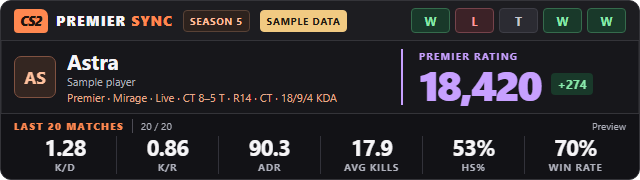
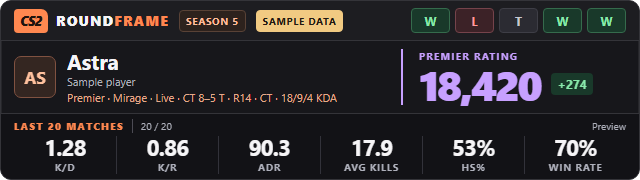
Rebrand project as Roundframe for CS2
Refresh the README and guides, align the overlay and setup branding, and migrate the old Startup shortcut while keeping existing data paths and release downloads intact.

Changed region(s): [[0.0938, 0.0556, 0.5625, 0.1944]]

diff --git a/web/index.html b/web/index.html
@@ -4,16 +4,16 @@
   <meta charset="utf-8">
   <meta name="viewport" content="width=device-width, initial-scale=1">
   <meta name="color-scheme" content="dark">
-  <title>CS2 Premier Sync</title>
+  <title>Roundframe for CS2</title>
   <link rel="stylesheet" href="./web/styles.css">
   <script defer src="./web/app.js"></script>
 </head>
 <body>
-  <main class="widget" id="widget" data-band="unrated" aria-label="CS2 Premier Sync player statistics">
+  <main class="widget" id="widget" data-band="unrated" aria-label="Roundframe for CS2 player statistics">
     <header class="top-row">
       <div class="brand">
         <span class="brand-mark">CS2</span>
-        <span>PREMIER <b>SYNC</b></span>
+        <span>ROUND<b>FRAME</b></span>
       </div>
       <span class="season" title="Valve Premier season verified November 2026">SEASON 5</span>
       <span class="sample" id="sample" hidden>SAMPLE DATA</span>

diff --git a/web/settings.html b/web/settings.html
@@ -3,13 +3,13 @@
 <head>
   <meta charset="utf-8">
   <meta name="viewport" content="width=device-width, initial-scale=1">
-  <title>CS2 Premier Sync · One-time setup</title>
+  <title>Roundframe for CS2 · One-time setup</title>
   <link rel="stylesheet" href="/web/settings.css">
 </head>
 <body>
   <main class="page">
     <header class="header">
-      <div class="brand"><span class="brand-mark">CS2</span><div><b>PREMIER SYNC</b><small>COMPACT OBS PROFILE OVERLAY</small></div></div>
+      <div class="brand"><span class="brand-mark">CS2</span><div><b>ROUNDFRAME</b><small>PREMIER PROFILE OVERLAY</small></div></div>
       <a href="/?demo=1" target="_blank" rel="noopener noreferrer">OPEN PREVIEW ↗</a>
     </header>
     <section class="intro">

diff --git a/server.py b/server.py
@@ -236,7 +236,7 @@ def send_json(handler: BaseHTTPRequestHandler, data: Any, status: int = 200) -> 
 
 
 class Handler(BaseHTTPRequestHandler):
-    server_version = "CS2PremierOverlay"
+    server_version = "RoundframeForCS2"
     sys_version = ""
 
     def setup(self) -> None:
@@ -384,9 +384,9 @@ def main() -> None:
             with urlopen(request, timeout=3) as response:
                 if json.load(response) != {"ok": True}:
                     raise ValueError("Unexpected response")
-            print("CS2 Premier Sync stopped.")
+            print("Roundframe for CS2 stopped.")
         except (OSError, ValueError):
-            raise SystemExit("Could not stop CS2 Premier Sync. Check whether it is running on port 3000.")
+            raise SystemExit("Could not stop Roundframe for CS2. Check whether it is running on port 3000.")
         return
     try:
         server = ThreadingHTTPServer((HOST, PORT), Handler)

diff --git a/providers.py b/providers.py
@@ -125,7 +125,7 @@ def parse_profile(profile: dict, steam_id: str, matches: Any = None) -> dict:
 
 
 def http_json(url: str, api_key: str = "") -> Any:
-    request = Request(url, headers={"Accept": "application/json", "User-Agent": "CS2-Premier-OBS-Overlay"})
+    request = Request(url, headers={"Accept": "application/json", "User-Agent": "Roundframe-CS2"})
     if api_key:
         request.add_unredirected_header("Authorization", f"Bearer {api_key}")
     with urlopen(request, timeout=8) as response:

diff --git a/scripts/build_release.py b/scripts/build_release.py
@@ -30,7 +30,7 @@ def main() -> None:
         raise SystemExit("VERSION must be in major.minor.patch form.")
     licensed = (ROOT / "LICENSE").is_file()
     files = sorted([*FILES, "LICENSE"] if licensed else FILES)
-    name = f"CS2-Premier-Overlay-{version}"
+    name = f"cs2-roundframe-{version}"
     dist = ROOT / "dist"
     dist.mkdir(exist_ok=True)
     archive = dist / f"{name}-windows{'-candidate' if not licensed else ''}.zip"

diff --git a/README.md b/README.md
@@ -1,42 +1,50 @@
-# CS2 Premier Sync for OBS
+# Roundframe for CS2
 
-A 640 × 180 OBS Browser Source for Windows 10 and 11. Show your CS Rating, recent matchmaking stats, and live Counter-Strike 2 scores in one scene. The preview uses fictional data.
+[![Checks](https://github.com/abhiraj109/cs2-roundframe/actions/workflows/ci.yml/badge.svg?branch=main)](https://github.com/abhiraj109/cs2-roundframe/actions/workflows/ci.yml) [![MIT License](https://img.shields.io/github/license/abhiraj109/cs2-roundframe)](LICENSE)
 
-![CS2 Premier Sync banner and overlay preview with sample data](assets/screenshots/preview.png)
+A clean, compact CS2 Premier profile overlay for OBS on Windows 10 and 11. Roundframe combines your Premier Rating and recent match stats with live match details in a 640 × 180 browser source. Steam and CS2 are needed for live match data. The preview uses fictional data.
 
-## Quick start
+![Roundframe for CS2 overlay preview with fictional sample data](assets/screenshots/preview.png)
+
+## Get started
 
 1. Install [Python 3.10 or newer](https://www.python.org/downloads/windows/) and [OBS Studio](https://obsproject.com/download). Enable the Python launcher or add Python to PATH.
-2. Extract the release ZIP to a permanent folder and run `setup_once.bat` to install the CS2 Game State Integration (GSI) config. The optional Windows Startup shortcut launches this copy of the project.
-3. Run `run_overlay.bat` and fully restart CS2. In OBS add a **Browser** source with URL `http://127.0.0.1:3000/`, **Width 640** and **Height 180**. Keep **Local file** off.
-4. Open `http://127.0.0.1:3000/?demo=1` to preview fictional data. If you use the demo URL in OBS, restore `http://127.0.0.1:3000/` for live use.
+2. Download the latest **Windows ZIP** from [GitHub Releases](https://github.com/abhiraj109/cs2-roundframe/releases/latest) and extract it to a permanent folder.
+3. Run `setup_once.bat` to install the CS2 Game State Integration (GSI) config. Run `run_overlay.bat`, then fully restart CS2.
+4. In OBS, add a **Browser** source with URL `http://127.0.0.1:3000/`, width **640** and height **180**. Leave **Local file** off.
 
-See the [Windows installation guide](docs/INSTALLATION.md) for screenshots, manual GSI install, scaling, updates and uninstall. Use `stop_overlay.bat` to stop the server.
+Open `http://127.0.0.1:3000/?demo=1` to preview fictional data. For setup screenshots, scaling, updates and uninstall steps, see the [Windows installation guide](docs/INSTALLATION.md). Use `stop_overlay.bat` to stop the server.
 
-## Feature support
+## What it shows
 
-| Feature | Availability | Data source |
-| --- | --- | --- |
-| Premier Rating | When the public profile has a current CS Rating | Leetify `ranks.premier` |
-| Player name | When Steam, the local game or the public profile reports it | Steam login data, GSI, Leetify |
-| K/D | Recent recorded matches with kills and deaths | Leetify detail, or GSI history |
-| Last 20 matches | Up to 20 available matches; five recent result tiles | Leetify matchmaking, or GSI history |
-| Headshot % | When provider matches report headshot kills | Leetify match detail |
-| Win rate | When known results are available | Leetify matchmaking, or GSI history |
-| ADR | When provider matches include round and damage data | Leetify match detail |
-| Live score, map and K/D/A | When CS2 reports them for the selected account | GSI |
+| Display | Source and coverage |
+| --- | --- |
+| Premier Rating | Current rating from a public Leetify profile, when available |
+| Recent results and stats | Up to 20 processed Leetify matches; local GSI match history can fill in supported stats |
+| Headshot percentage and ADR | Leetify match details when the provider supplies them |
+| Live player, map, score and K/D/A | CS2 Game State Integration while playing |
 
-Premier and Competitive can both appear as **Matchmaking** when CS2 reports `competitive`. Wingman appears when the feed identifies it. CS Rating applies to Premier. Local history requires the overlay to see the local player during live play and receive a final score. Practice or community matches can report similar mode fields. The overlay uses either provider history or local history for a display, with missing metrics shown as dashes.
+CS2 may report both Premier and Competitive as **Matchmaking**. Local history only records matches observed while Roundframe is running and requires a final score. Missing values appear as dashes. See [data sources and metric coverage](docs/CONFIGURATION.md).
 
-Steam detection checks the active Windows Steam account, the live CS2 account, then Steam's recent-login config. Set a one-time override at `http://127.0.0.1:3000/settings`. The normal launcher looks up the selected SteamID64 with Leetify. Launch from Command Prompt with `run_overlay.bat --offline` for GSI and local history without provider requests. The Browser Source can reveal the selected Steam ID, name and avatar during a stream. See [configuration and statistics](docs/CONFIGURATION.md) and [privacy](SECURITY.md).
+## Leetify and local data
 
-## Help and development
+Roundframe can request public profile and match data from Leetify. A public profile connected to the selected Steam account is required. A `LEETIFY_API_KEY` Windows user environment variable is optional; it can help avoid unauthenticated rate limits. See [Leetify setup](docs/CONFIGURATION.md#leetify-api-key). Do not put an API key in the repository or share it in screenshots.
 
-- [Troubleshooting](docs/TROUBLESHOOTING.md) covers Python, Steam, GSI, Leetify, OBS size and port 3000.
-- [FAQ](docs/FAQ.md) answers common setup and data questions.
-- [Architecture](docs/ARCHITECTURE.md) and [local API](docs/API.md) describe the server, storage and browser.
-- Run `run_tests.bat` on Windows or `python -m unittest discover -s tests -v` from the project root. See [contributing](CONTRIBUTING.md), [test results](docs/TEST_RESULTS.md), and the [changelog](CHANGELOG.md).
+The server listens on `127.0.0.1:3000`; CS2 Game State data is sent to your own PC. Provider profile data stays in memory, while locally observed matches and your selected Steam account setting are stored under `%LOCALAPPDATA%\CS2PremierOverlay`. The OBS source can display your Steam name, SteamID64 and avatar. Use `run_overlay.bat --offline` to disable Leetify requests for that session. Read the [privacy and security notes](SECURITY.md).
+
+## Guides
+
+- [Installation, updates and uninstall](docs/INSTALLATION.md)
+- [Configuration and statistics](docs/CONFIGURATION.md)
+- [Troubleshooting](docs/TROUBLESHOOTING.md)
+- [Frequently asked questions](docs/FAQ.md)
+- [Architecture](docs/ARCHITECTURE.md) and [local HTTP API](docs/API.md)
+- [Third-party notices](docs/THIRD_PARTY.md), [license](LICENSE), and [changelog](CHANGELOG.md)
+
+## Development
+
+Roundframe uses Python's standard library and does not require `pip install`. Run `run_tests.bat` on Windows, or `python -m unittest discover -s tests -v`. See [contributing](CONTRIBUTING.md) and [test results](docs/TEST_RESULTS.md). The GitHub Actions checks run the Windows test matrix, browser JavaScript syntax check, packaging check and secret scan.
 
 ## License and attribution
 
-The project code and documentation are released under the [MIT License](LICENSE). See the [third-party notices](docs/THIRD_PARTY.md) for the Leetify attribution artwork and provider terms. This is an independent community project with no affiliation with Valve, Steam, FACEIT, Leetify or OBS Studio. Their names and marks belong to their respective owners.
+The project code and documentation are available under the [MIT License](LICENSE). The Leetify attribution artwork is governed by Leetify's terms; see [third-party notices](docs/THIRD_PARTY.md). Roundframe is an independent community project with no affiliation with Valve, Steam, FACEIT, Leetify or OBS Studio. Their names and marks belong to their respective owners.

diff --git a/docs/PUBLISHING.md b/docs/PUBLISHING.md
@@ -1,28 +1,29 @@
-# Publish the project on GitHub
+# Publish a Roundframe for CS2 release
 
-The local branch is `main`. The project uses the [MIT License](../LICENSE). See [third-party notices](THIRD_PARTY.md) for the Leetify integration and its outstanding terms questions.
+The public repository is [abhiraj109/cs2-roundframe](https://github.com/abhiraj109/cs2-roundframe). The project uses the [MIT License](../LICENSE). Review [third-party notices](THIRD_PARTY.md) before distributing the Leetify attribution artwork.
 
-1. Run the checks in [CONTRIBUTING.md](../CONTRIBUTING.md) and build with `python scripts/build_release.py`. Extract and smoke-test the final ZIP. Record its SHA-256. Review the final source and asset permissions, including the provider attribution mark and copyright for contributed code.
-2. Stage the reviewed source, then inspect its contents and run a redacted secret scan. Confirm the Git author email is one you want published. GitHub offers a [noreply email configuration](https://docs.github.com/en/account-and-profile/how-tos/email-preferences/setting-your-commit-email-address).
+## Prepare a new version
+
+1. Update `VERSION` and `CHANGELOG.md` for the new release. Run the checks in [CONTRIBUTING.md](../CONTRIBUTING.md), then build the Windows ZIP:
+
+   ```powershell
+   python scripts/build_release.py
+   ```
+
+   The archive is named `dist/cs2-roundframe-<version>-windows.zip`. Extract it to a clean folder, verify the archive contents, and smoke-test setup, launch, OBS preview and uninstall. Record its SHA-256 checksum.
+
+2. Review the files being published and the Git author identity before committing. Never stage local settings, match history, API keys or generated runtime data.
 
    ```powershell
    git status --short --ignored
-   git add --all
-   git diff --cached --check
-   git diff --cached --stat
-   git diff --cached --name-only
-   gitleaks git --staged --redact
-   git commit -m "Prepare CS2 Premier Sync for public release"
+   git diff --check
+   git diff --stat
+   git diff --name-only
    gitleaks git --redact --log-opts="--all"
    ```
 
-3. On GitHub create an empty public repository named **CS2-Premier-Overlay**. Leave GitHub's README, ignore file, and license initialization unchecked. Suggested description is “A lightweight CS2 Premier statistics overlay for OBS Studio with live GSI, Premier Rating and recent matchmaking history.” Set topics to `counter-strike-2`, `cs2`, `obs-studio`, `obs-overlay`, `game-state-integration`, `premier-rating`, `python`, and `open-source`. [GitHub repository setup](https://docs.github.com/en/repositories/creating-and-managing-repositories/creating-a-new-repository)
-4. Use the owner from the new GitHub URL in these commands.
+3. Commit and push the tested change to `main`. Wait for all GitHub Actions checks, including the secret scan, to pass.
 
-   ```powershell
-   git remote add origin https://github.com/OWNER/CS2-Premier-Overlay.git
-   git push -u origin main
-   ```
+4. Create a GitHub release for the new version tag, attach the matching Windows ZIP, and add the checksum and summary to the release notes. Verify the published download before announcing it. See [GitHub release instructions](https://docs.github.com/en/repositories/releasing-projects-on-github/managing-releases-in-a-repository).
 
-5. Verify the public README, preview image, license and Actions run. Enable [private vulnerability reporting](https://docs.github.com/en/code-security/security-advisories/working-with-repository-security-advisories/configuring-private-vulnerability-reporting-for-a-repository) and make a private conduct-report contact available.
-6. After CI passes, open **Releases → Draft a new release**. Choose `v4.1.0` on the tested commit, use [release notes](RELEASE_NOTES.md) and attach `dist/CS2-Premier-Overlay-4.1.0-windows.zip`. Add the checksum to the notes, check the download, then publish. [GitHub release instructions](https://docs.github.com/en/repositories/releasing-projects-on-github/managing-releases-in-a-repository)
+The existing `v4.1.0` release was published before the rename and keeps its original asset name and URL. Leave that release intact; a rename does not require republishing it. New builds use the Roundframe archive name.

diff --git a/docs/TROUBLESHOOTING.md b/docs/TROUBLESHOOTING.md
@@ -7,7 +7,7 @@
 | Port 3000 is busy | If another overlay instance is running, stop it. In PowerShell, `Get-NetTCPConnection -LocalPort 3000 -State Listen` lists the owning PID. Identify the owner with `Get-Process -Id <PID>` and close or reconfigure that app through its normal controls. |
 | GSI never connects | Rerun `install_gsi.bat` or copy the config manually as described in the [installation guide](INSTALLATION.md). Fully restart CS2 and join a match. `/api/health` shows the age of the latest real packet. The sample GSI endpoint has its own independent state. |
 | Steam account missing or incorrect | Sign in to the Steam desktop client, then open local Settings. Wait for the active account to update or save a SteamID64 override. Clear the override when switching back to automatic detection. |
-| Leetify profile unavailable | Verify public visibility and that the profile matches the selected Steam account. HTTP 401 suggests checking the optional key. For HTTP 429, allow the retry timer to pass. Restart the overlay after changing the Windows user environment variable. |
+| Leetify profile unavailable | Verify public visibility and that the profile matches the selected Steam account. HTTP 401 suggests checking or removing an invalid optional key. For HTTP 429, allow the retry timer to pass. Restart the overlay after changing the Windows user environment variable; see [Leetify setup](CONFIGURATION.md#leetify-api-key). |
 | Premier Rating is blank | Check that the profile has a current CS Rating and the provider is enabled. Leetify needs time to process matches. The offline mode and local GSI history leave this field blank. |
 | Historical data is stale | Check the update/status label and allow the refresh interval. Confirm that the provider has processed your latest match. For local history the server has to see live play and a terminal packet with both scores for your account. Run the overlay before joining. |
 | Overlay is too small, stretched, or cut off | Set the source viewport to 640 × 180, reset the OBS transform, clear crop and any custom CSS, then apply a uniform scene scale. OBS editor zoom only changes the view of the canvas. [OBS scaling reference](https://obsproject.com/kb/aspect-ratio-guide) |

diff --git a/docs/INSTALLATION.md b/docs/INSTALLATION.md
@@ -1,10 +1,10 @@
-# Install on Windows 10 or 11
+# Install Roundframe on Windows 10 or 11
 
 You need [Python 3.10+](https://www.python.org/downloads/windows/), [OBS Studio](https://obsproject.com/download), and Steam with CS2 for live use. Install Python for your Windows user and enable the launcher or the PATH option. Open a new Command Prompt and try `py -3 --version` or `python --version`. The overlay does not require pip packages or administrator privileges when you can write to your CS2 install.
 
 ## Extract and configure CS2
 
-1. From GitHub **Releases**, download the versioned Windows ZIP once a public release is available. For a local candidate, use the ZIP supplied by the maintainer. Right-click the ZIP and choose **Extract All**. Pick a permanent directory you can write to, such as a folder under Documents.
+1. From [Roundframe for CS2 Releases](https://github.com/abhiraj109/cs2-roundframe/releases/latest), download the Windows ZIP. For a local candidate, use the ZIP supplied by the maintainer. Right-click the ZIP and choose **Extract All**. Pick a permanent directory you can write to, such as a folder under Documents.
 2. Open the extracted folder and double-click `setup_once.bat`. It uses Steam's registry entries and library list to locate CS2 and copies the GSI config. Answer **N** to launch manually or **Y** to add a Startup shortcut for this folder.
 3. If automatic setup cannot find CS2, right-click CS2 in Steam and choose **Manage → Browse local files**. Copy `gsi/gamestate_integration_cs2_obs_overlay.cfg` from this project to `game\csgo\cfg\` in the opened CS2 folder. Confirm the destination filename ends in `.cfg`.
 4. Start Steam, sign in, then run `run_overlay.bat`. Keep the command window open. Fully exit and restart CS2 after installing GSI.

diff --git a/docs/FAQ.md b/docs/FAQ.md
@@ -1,8 +1,12 @@
 # Frequently asked questions
 
-**Does this change the CS2 HUD?** It only renders into an OBS scene or a regular browser. GSI supplies data over a local connection.
+**Does this change the CS2 HUD?** Roundframe renders into an OBS scene or a regular browser. GSI supplies game data over a local connection; the in-game HUD is unchanged.
 
 **Can I use it without Leetify?** Yes. The server can show live CS2 data and track completed matches locally. In Command Prompt use `run_overlay.bat --offline` to prevent provider requests. Premier Rating, ADR and headshot percentage need provider data.
+
+**What is the difference between Leetify data and local data?** Leetify can supply Premier Rating and processed recent matchmaking matches, including ADR and headshot stats when available. Local GSI data is collected only while Roundframe is running and CS2 sends packets; it supplies live match information and can record completed matches, but has no Premier Rating, ADR or headshot coverage.
+
+**Do I need a Leetify API key?** No. Public profile requests work without one but may hit tighter rate limits. An optional `LEETIFY_API_KEY` Windows user environment variable is documented in [configuration](CONFIGURATION.md#leetify-api-key).
 
 **Why do I see Matchmaking while playing Premier?** CS2 can send `competitive` for both Premier and Competitive. The overlay preserves that ambiguity. Wingman appears when the feed identifies it.
 

diff --git a/docs/CONFIGURATION.md b/docs/CONFIGURATION.md
@@ -1,4 +1,4 @@
-# Configuration and statistics
+# Roundframe configuration and statistics
 
 | Setting | How to change it |
 | --- | --- |
@@ -7,6 +7,10 @@
 | Local-only statistics | From Command Prompt in the project folder, run `run_overlay.bat --offline`. This disables Leetify sync for that process. |
 | OBS viewport | Use 640 × 180 in Browser Source properties. Apply the output scale in OBS. |
 | GSI endpoint | Use the supplied config. The normal install uses `127.0.0.1:3000/gsi`. |
+
+## Leetify API key
+
+Leetify profile requests work without a key, subject to the public API's unauthenticated limits. To use your key, open Windows **Edit environment variables for your account**, add a user variable named `LEETIFY_API_KEY`, and paste the key from the [Leetify developer page](https://leetify.com/app/developer) as its value. Save the change, close the overlay, and start it again so Windows passes the variable to Python. Do not paste the key into project files, GitHub issues, or screenshots. `run_overlay.bat --offline` disables provider requests for that run.
 
 The server creates `%LOCALAPPDATA%\CS2PremierOverlay` at startup. Settings are saved atomically to `settings.json`; [blank example](../examples/example_config.json). SQLite creates `match_history.sqlite3` as needed. The application logs to its console.
 

diff --git a/docs/RELEASE_NOTES.md b/docs/RELEASE_NOTES.md
@@ -1,4 +1,6 @@
-# CS2 Premier Sync for OBS 4.1.0
+# Roundframe for CS2 4.1.0
+
+This version was originally published under the project name CS2 Premier Sync for OBS.
 
 This first release packages a 640 × 180 Browser Source with Steam account detection, CS2 GSI, Premier Rating and recent matchmaking stats through Leetify, and SQLite fallback history.
 
